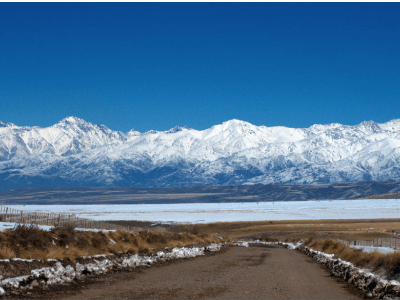
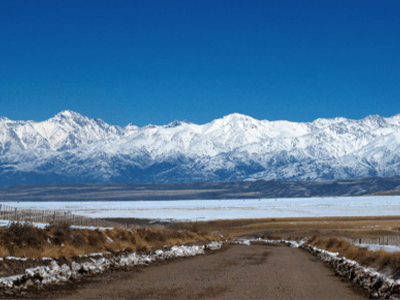
Imagenes y textos de tours actualizados

Changed region(s): [[0.0, 0.36, 1.0, 1.0], [0.0, 0.0, 1.0, 0.03]]

diff --git a/index.html b/index.html
@@ -114,15 +114,15 @@
 
                      
                     <div class="carrousel-div-img">
-                        <img src="./assets/fotos/tour1.jpg" alt="Imagen 1" class="img">
+                        <img src="#" srcset="./assets/fotos/tour1.jpg 360w, ./assets/fotos/tour1-grande.jpg 768w"  alt="Imagen 1" class="img">
                     </div>
 
                     <div class="carrousel-div-img">
-                        <img src="./assets/fotos/tour2.png" alt="Imagen 2" class="img">
+                        <img src="#" srcset="./assets/fotos/tour2.png 360w,./assets/fotos/tour2-grande.png 768w" alt="Imagen 2" class="img">
                     </div>
 
                     <div class="carrousel-div-img">
-                        <img src="./assets/fotos/tour3.png" alt="Imagen 3" class="img">
+                        <img src="#" srcset="./assets/fotos/tour3.png 360w, ./assets/fotos/tour3-grande.png 768w" alt="Imagen 3" class="img">
                     </div>
                     
                 </div>
@@ -211,17 +211,17 @@
             <h2>Tour #1: Wineries and Olive growers</h2>
             <p class="tour-btn" >See more</p>
             <div class="tour-div tour-div-hiden">
-                <p>Schedule: 8 am to 18 pm</p>
+                <p class="tour-schedule">Schedule: 8 am to 18 pm</p>
                 <br>
-                <p>After picking you up at your hotel, we start the tour heading to the "Bodega Rural" wine museum, a must on your visit to the city.
+                <p>On this tour, we will spend the day touring the city's most characteristic wineries and olive groves.
                     <br><br>
-                    We continue to the famous LAUR olive grove, ranked number 1 in the world and a pioneer in the establishment of olive groves in the province of Mendoza as well as in the production of olive oil.
+                    Our careful selection of wineries includes La Rural, Bodeguer, Chandon, Vistandes and Cecchin. 
                     <br><br>
-                    After lunch, we continue to the "Bodega Chandon" where sparkling wines are produced. And we finish the tour at the Budeguer winery, where some of the best wines in the country are produced and harvested.
+                    And the olive growers: Maguay, Laur, Pasrai and Simone. <br>
+                    We´ll be visiting 3 of these wineries and 1 olive farm, and at all points of the tour, you will enjoy tastings, historical explanations of the places, and beautiful views to relax and enjoy the day. 
                     <br><br>
-                    At all points of the tour, you will enjoy tastings, historical explanations of the places, and beautiful views to relax and enjoy the day.
-                    <br><br>
-                    At the end of the tour, we make sure you arrive safely back to your hotel. </p>
+                    At the end of the tour, we ensure you arrive safely back at your hotel. 
+                    </p>
                 
                 <div class="tour-galery">
                     <div class="tour-img"><img src="./assets/fotos/tour1/Dribbble_shot-1tour1.jpg" alt=""></div>
@@ -241,13 +241,15 @@
             <h2>Tour #2: High Mountain</h2>
             <p class="tour-btn" >See more</p>
             <div class="tour-div tour-div-hiden">
+                <p class="tour-schedule">Schedule: 8 am to sunset</p>
+                <br>
                 <p>After picking you up at your hotel, we start our tour in the direction of Aconcagua Park, a protected area in the Argentinean Andes, on the border with Chile. There you will find Mount Aconcagua, whose summit is covered with snow and which is one of the highest in South America - you will enjoy spectacular views while trekking!
                 <br><br>
-                We will continue walking through Uspallata, a town of enormous cultural value and with postcard views everywhere. The real charm of the town lies in its surroundings, which offer a wide range of outdoor activities, ideal for adventure and outdoor enthusiasts!
+                We will continue walking through Uspallata, a town of enormous cultural value and with postcard views everywhere. The authentic charm of the town lies in its surroundings, which offer a wide range of outdoor activities, ideal for adventure and outdoor enthusiasts!
                 <br><br>
                 After lunch, we continue with a visit to the Inca bridge. Declared a cultural heritage site, its geological, scenic and historical value make it an important feature of the cultural identity of this region of the Central Andes.
                 <br><br>
-                We will end the trip with a visit to the Christ of the Redeemer, and we´ll make sure you arrive safely back to your hotel. </p>
+                We will end the trip with a visit to the Christ of the Redeemer, and we´ll make sure you arrive safely back to your hotel.</p>
 
                 <div class="tour-galery">
                     <div class="tour-img"><img src="./assets/fotos/tour2/Dribbble_shot-5tour2.png" alt=""></div>
@@ -262,17 +264,19 @@
 
     <template id="template-3">
         <div class="tour">
-            <h2>Tour #3 Mountain</h2>
+            <h2>Tour #3 Countryside day</h2>
             <p class="tour-btn" >See more</p>
             <div class="tour-div tour-div-hiden">
+                <p class="tour-schedule">Schedule: 9.30 am to sunset</p>
+                <br>
                 <p>
-                    After picking you up at your hotel, we start the tour in Tupungato, one of the most important places in Mendoza. We will continue along the "Camino de la Carrera" circuit that links Potrerillos and Tupungato, from the mountain range to the fertile valley. This offers the tourist an incredible multiplicity of landscapes: snowy peaks as a backdrop, pampas with cattle, cultivated areas and poplar groves that await the spring to display their green and silver.
+                    After picking you up at your hotel, we start the tour at a ranch in the middle of the road to La Carrera, where you will be welcomed by gauchos and taste traditional Argentinean food and wine in a 4-course menu.
                     <br><br>
-                    We will reach Potrerillos, where the Potrerillos water mirror is located. The majesty of this setting, added to the beauty of the natural landscape, the pure air, the climate and the mountain environment, results in great tourist and recreational potential at an international level.
+                    Afterwards, you can enjoy a horseback ride in the mountains, or opt for a more leisurely activity, such as a traditional Argentinean cooking class.
                     <br><br>
-                    After lunch at the Hotel Potrerillos, you can choose whether to continue walking and relaxing on the grounds or take a kayak ride along the dam.
+                    We spend the day there and then we continue along the race road until we reach the viewpoint at the Potrerillos dam, where the Potrerillos water mirror is located. The majesty of this setting, added to the beauty of the natural landscape, the pure air, the climate and the mountain environment, results in great tourist and recreational potential at an international level.
                     <br><br>
-                    At the end of the tour, we make sure you arrive safely back to your hotel.</p>
+                    At the end of the tour, we ensure you arrive safely back at your hotel.</p>
 
                     <div class="tour-galery">
                         <div class="tour-img"><img src="./assets/fotos/tour3/Dribbble_shot-9tour3.png" alt=""></div>

diff --git a/styles/components/carrousel.scss b/styles/components/carrousel.scss
@@ -161,6 +161,9 @@
         .tour-div{
             @include padding-top;
             overflow-x: hidden;
+            .tour-schedule{
+                font-weight: 600;
+            }
             .tour-galery{
                 display: grid;
                 align-items: center;
@@ -173,7 +176,9 @@
                     overflow: hidden;
                     object-fit: cover;
                     object-position: center;
-                    img{width: 100%;}                 
+                    img{
+                        width: 100%;
+                    }                 
                 }
             }
 

diff --git a/css/styles.css b/css/styles.css
@@ -1358,6 +1358,9 @@ p {
   padding-top: 15px;
   overflow-x: hidden;
 }
+#tour-info .tour .tour-div .tour-schedule {
+  font-weight: 600;
+}
 #tour-info .tour .tour-div .tour-galery {
   display: grid;
   align-items: center;
